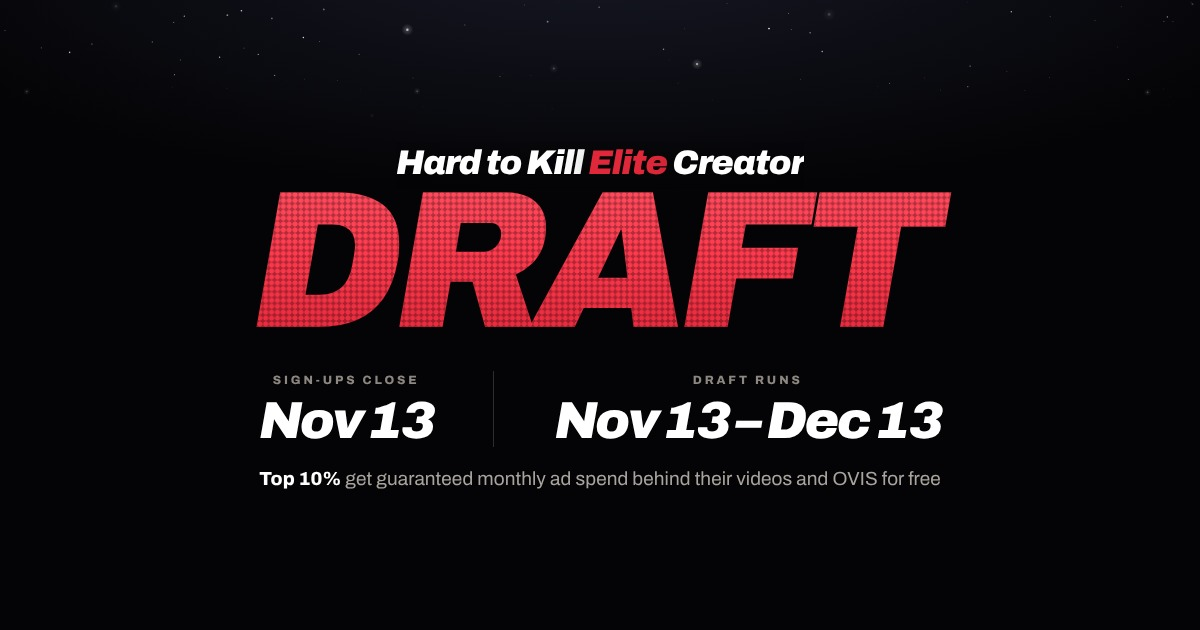
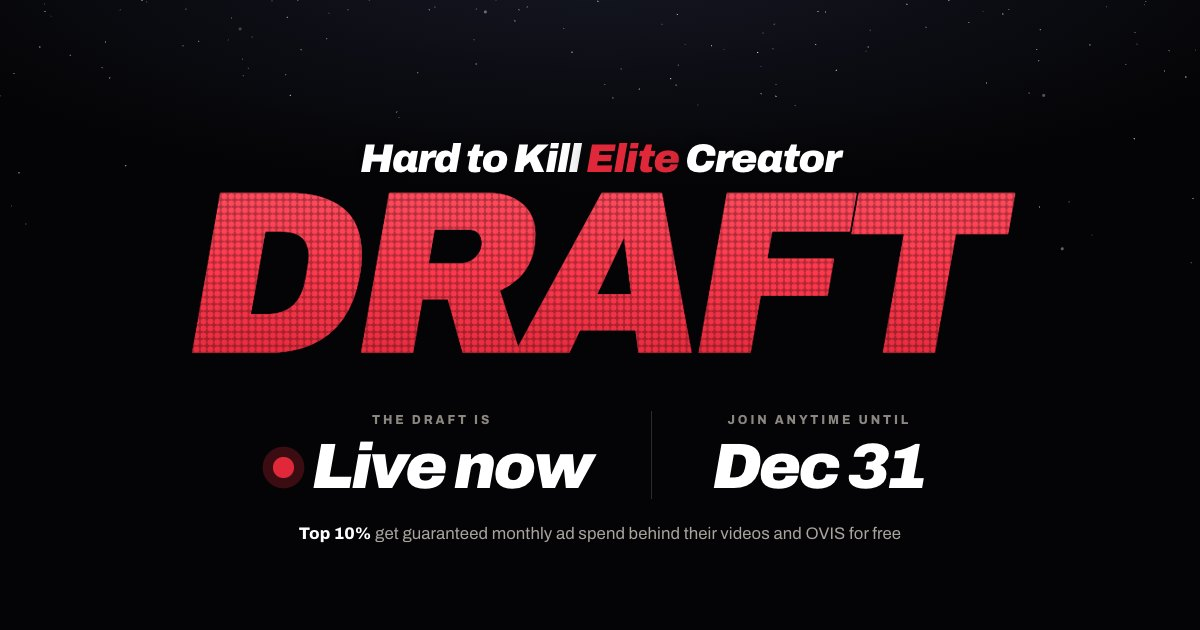
Draft is live now: join anytime until Dec 31

Changed region(s): [[0.1542, 0.2111, 0.8633, 0.7841], [0.2467, 0.8143, 0.74, 0.8746]]

diff --git a/index.html b/index.html
@@ -4,17 +4,17 @@
 <title>Hard to Kill Elite Creator Draft</title>
 <meta charset="utf-8">
 <meta name="viewport" content="width=device-width,initial-scale=1,viewport-fit=cover">
-<meta name="description" content="Sign-ups close Nov 13 · Draft runs Nov 13–Dec 13 · Top 10% get guaranteed monthly ad spend and OVIS free.">
+<meta name="description" content="Draft is live now · Join anytime until Dec 31 · Top 10% get guaranteed monthly ad spend and OVIS free.">
 <meta name="theme-color" content="#e0283a">
 <meta property="og:type" content="website">
 <meta property="og:site_name" content="Hard to Kill Creators">
 <meta property="og:title" content="Hard to Kill Elite Creator Draft">
-<meta property="og:description" content="Sign-ups close Nov 13 · Draft runs Nov 13–Dec 13 · Top 10% get guaranteed monthly ad spend and OVIS free.">
-<meta property="og:image" content="https://hardtokill-draft.vercel.app/og.jpg">
+<meta property="og:description" content="Draft is live now · Join anytime until Dec 31 · Top 10% get guaranteed monthly ad spend and OVIS free.">
+<meta property="og:image" content="https://hardtokill-draft.vercel.app/og.jpg?v=live1231">
 <meta property="og:image:width" content="1200"><meta property="og:image:height" content="630">
 <meta property="og:url" content="https://hardtokill-draft.vercel.app/">
 <meta name="twitter:card" content="summary_large_image">
-<meta name="twitter:image" content="https://hardtokill-draft.vercel.app/og.jpg">
+<meta name="twitter:image" content="https://hardtokill-draft.vercel.app/og.jpg?v=live1231">
 <link rel="icon" href="favicon.png">
 <link rel="preconnect" href="https://fonts.googleapis.com">
 <link rel="preconnect" href="https://fonts.gstatic.com" crossorigin>
@@ -894,6 +894,7 @@ section.s h2+.lead{margin-bottom:6px}
 .vcard.wide .gi .phone{zoom:.82}
 @media (max-width:820px){.vcard.wide .gallery{max-width:520px}.vcard.wide .gi .phone{zoom:.64}}
 @media (max-width:540px){.vcard.wide .gallery{gap:12px}.vcard.wide .gi .phone{zoom:.47}}
+.livenow{display:inline-flex;align-items:center;gap:.28em}.livenow i{width:.32em;height:.32em;border-radius:50%;background:#e0283a;box-shadow:0 0 0 0 rgba(224,40,58,.55);animation:livepulse 1.8s ease-out infinite;flex:none}@keyframes livepulse{0%{box-shadow:0 0 0 0 rgba(224,40,58,.55)}70%{box-shadow:0 0 0 .32em rgba(224,40,58,0)}100%{box-shadow:0 0 0 0 rgba(224,40,58,0)}}@media (prefers-reduced-motion:reduce){.livenow i{animation:none}}
 </style>
 </head>
 <body>
@@ -922,11 +923,11 @@ section.s h2+.lead{margin-bottom:6px}
       <span class="line"><span class="mv" id="mv1"><span class="in d-pre">Hard to Kill <span class="red">Elite</span> Creator</span></span></span>
       <span class="line l2 d-line"><span class="mv" id="mv2"><span class="in d-big">Draft</span></span></span>
     </h1>
-    <div class="dates fade"><div><small>Sign-ups close</small><b>Nov&nbsp;13</b></div><div><small>Draft runs</small><b>Nov&nbsp;13 – Dec&nbsp;13</b></div></div>
+    <div class="dates fade"><div><small>The draft is</small><b class="livenow"><i></i>Live&nbsp;now</b></div><div><small>Join anytime until</small><b>Dec&nbsp;31</b></div></div>
     <p class="facts2 perk fade"><span><b>Top 10%</b> get guaranteed monthly ad spend behind their videos and OVIS for free</span></p>
     <div class="row fade">
       <div class="cd-wrap">
-        <span class="cd-lbl" id="cd-lbl">Sign-ups open in</span>
+        <span class="cd-lbl" id="cd-lbl">Draft is live · Join before it ends in</span>
         <div class="cd">
           <div><b id="cd-d"><span>00</span></b><small>Days</small></div>
           <div><b id="cd-h"><span>00</span></b><small>Hrs</small></div>
@@ -995,7 +996,7 @@ section.s h2+.lead{margin-bottom:6px}
 
       <figure class="vcard">
         <figcaption><span class="vn">2</span><div><b>Say you're in on Discord.</b></div></figcaption>
-        <ul class="tips nl"><li>Open Discord → <b>#elite</b>.</li><li>Post <b>I'm in ✅ @yourhandle</b></li><li>Sign-ups close <b>Fri, Nov&nbsp;13, 11:59&nbsp;PM ET</b>. The draft runs <b>Nov&nbsp;13–Dec&nbsp;13</b>.</li></ul>
+        <ul class="tips nl"><li>Open Discord → <b>#elite</b>.</li><li>Post <b>I'm in ✅ @yourhandle</b></li><li>The draft is <b>live now</b>. You can still get in: join anytime until <b>Thu, Dec&nbsp;31, 11:59&nbsp;PM ET</b>.</li></ul>
         <div class="copychip"><span id="imin2">I'm in ✅</span><button class="copy" data-copy="imin2" type="button">Copy</button></div>
         <div class="stagex"><div class="phone"><div class="screen dark chat">
           <div class="sbar"><span>9:41</span><span class="sb-r"><i></i><i></i><i></i></span></div><div class="island"></div>
@@ -1088,12 +1089,12 @@ section.s h2+.lead{margin-bottom:6px}
 
     <div class="score" id="score">
       <h2>How Winners <span class="red">Are Picked.</span></h2>
-      <p class="lead"><b>The top 10% with the most points on Dec&nbsp;13 get drafted to the Hard to Kill Elite team.</b> Follow every step above to qualify.</p>
+      <p class="lead"><b>The top 10% with the most points on Dec&nbsp;31 get drafted to the Hard to Kill Elite team.</b> Follow every step above to qualify.</p>
       <div class="pts2" id="ladder">
         <div class="p2"><span class="what">Every <b>"OVIS"</b> comment</span><b class="num">1</b><small>point</small></div>
         <div class="p2 hot"><span class="what">Every <b>sale</b></span><b class="num">10</b><small>points</small></div>
       </div>
-      <p class="nocount">When someone who commented on your post buys, <b>you get the points and the</b> <span class="money">$ commission</span>. Only "OVIS" comments and sales count. No bots. Draft picks announced <b>Dec&nbsp;14</b>.</p>
+      <p class="nocount">When someone who commented on your post buys, <b>you get the points and the</b> <span class="money">$ commission</span>. Only "OVIS" comments and sales count. No bots. Draft picks announced <b>Jan&nbsp;1</b>.</p>
     </div>
   </section>
 
@@ -1136,9 +1137,8 @@ section.s h2+.lead{margin-bottom:6px}
   function clamp(v,a,b){return Math.max(a,Math.min(b,v))}
   function pad(n){return String(n).padStart(2,"0")}
   var ms=[
-    {t:new Date("2026-11-13T23:59:00-05:00"),l:"Sign-ups close in"},
-    {t:new Date("2026-12-13T23:59:00-05:00"),l:"The draft ends in"},
-    {t:new Date("2026-12-14T12:00:00-05:00"),l:"Draft picks announced in"}
+    {t:new Date("2026-12-31T23:59:00-05:00"),l:"Draft is live · Join before it ends in"},
+    {t:new Date("2027-01-01T12:00:00-05:00"),l:"Draft picks announced in"}
   ];
   function set(id,val){var s=$(id).firstChild;if(s.textContent===val)return;s.textContent=val;if(!reduce){s.classList.remove("tick");void s.offsetWidth;s.classList.add("tick")}}
   function tick(){
